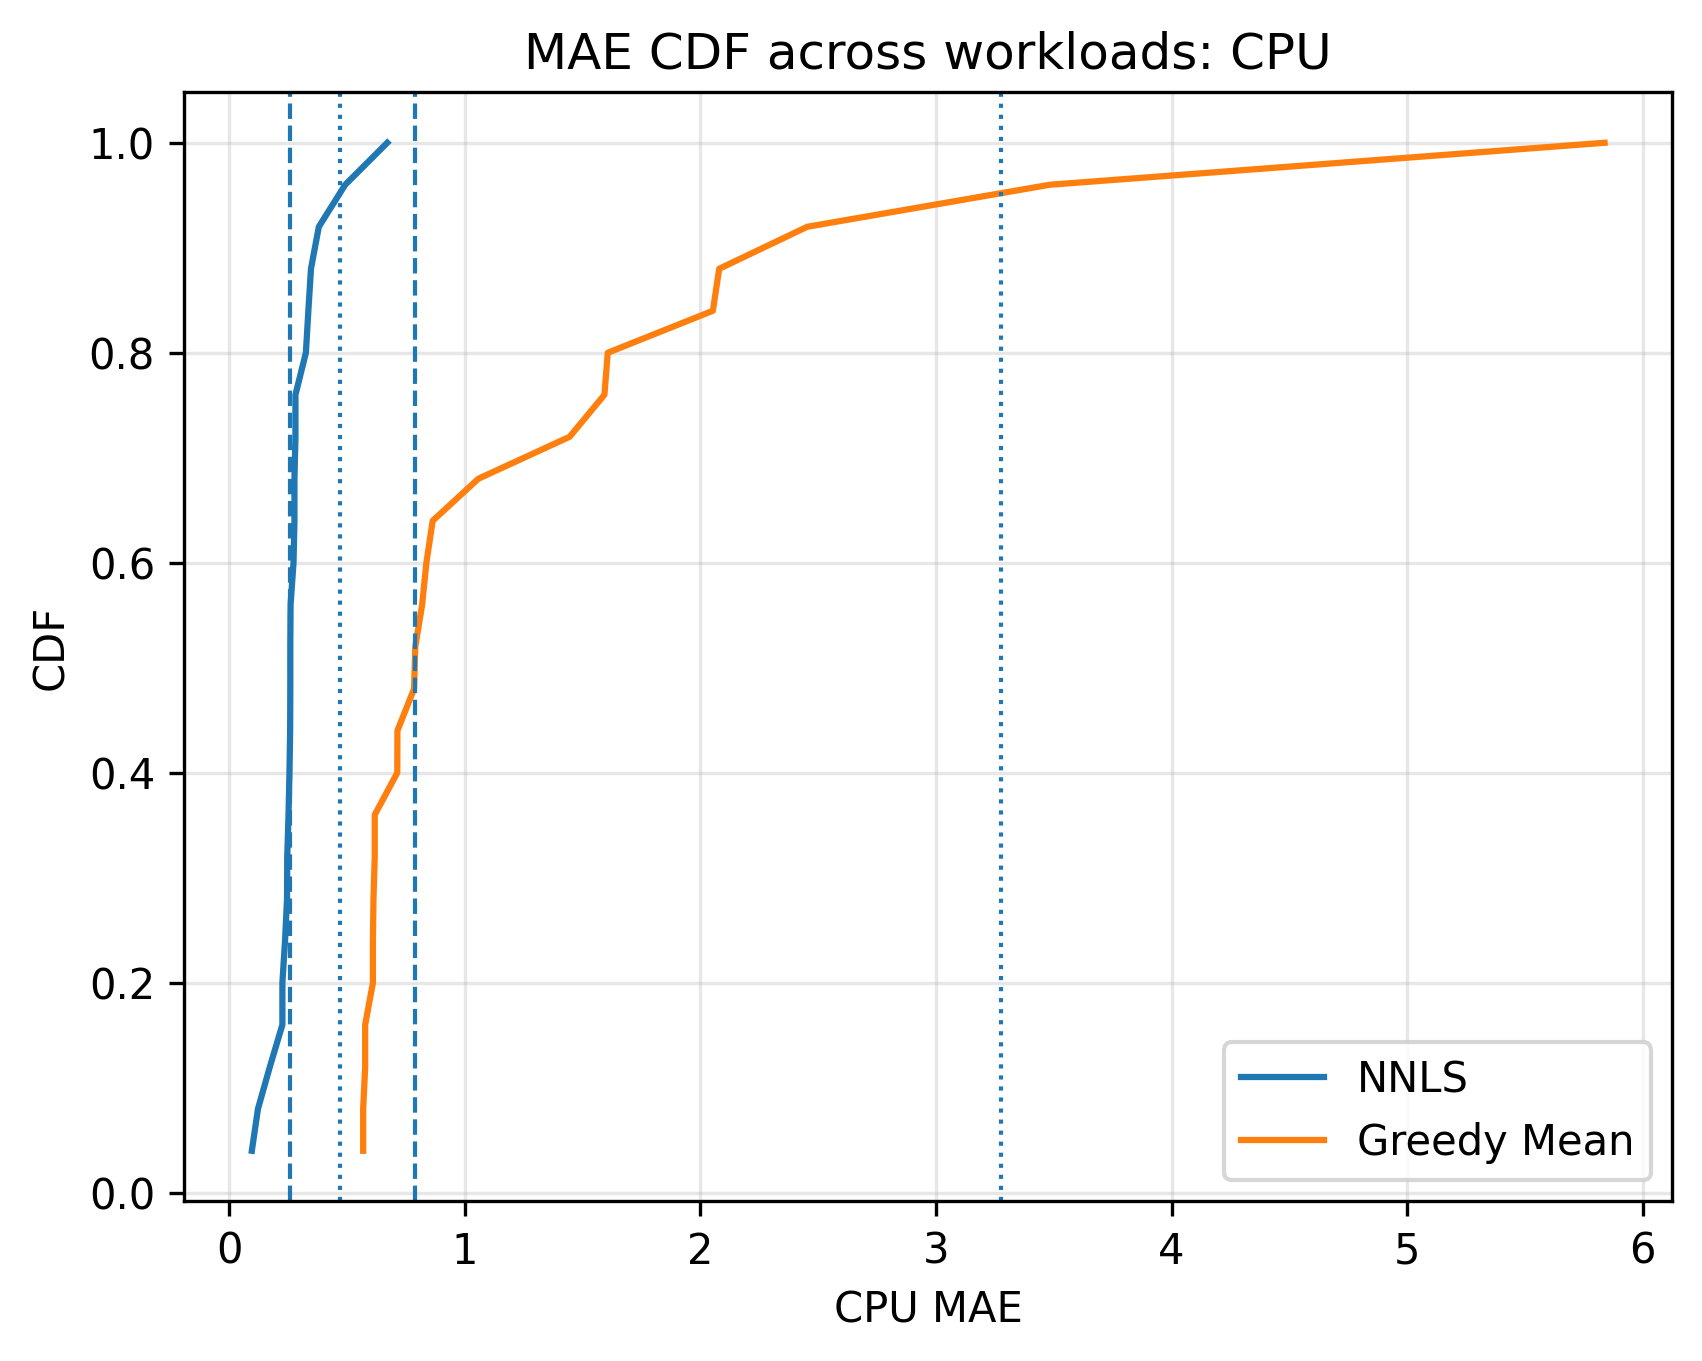
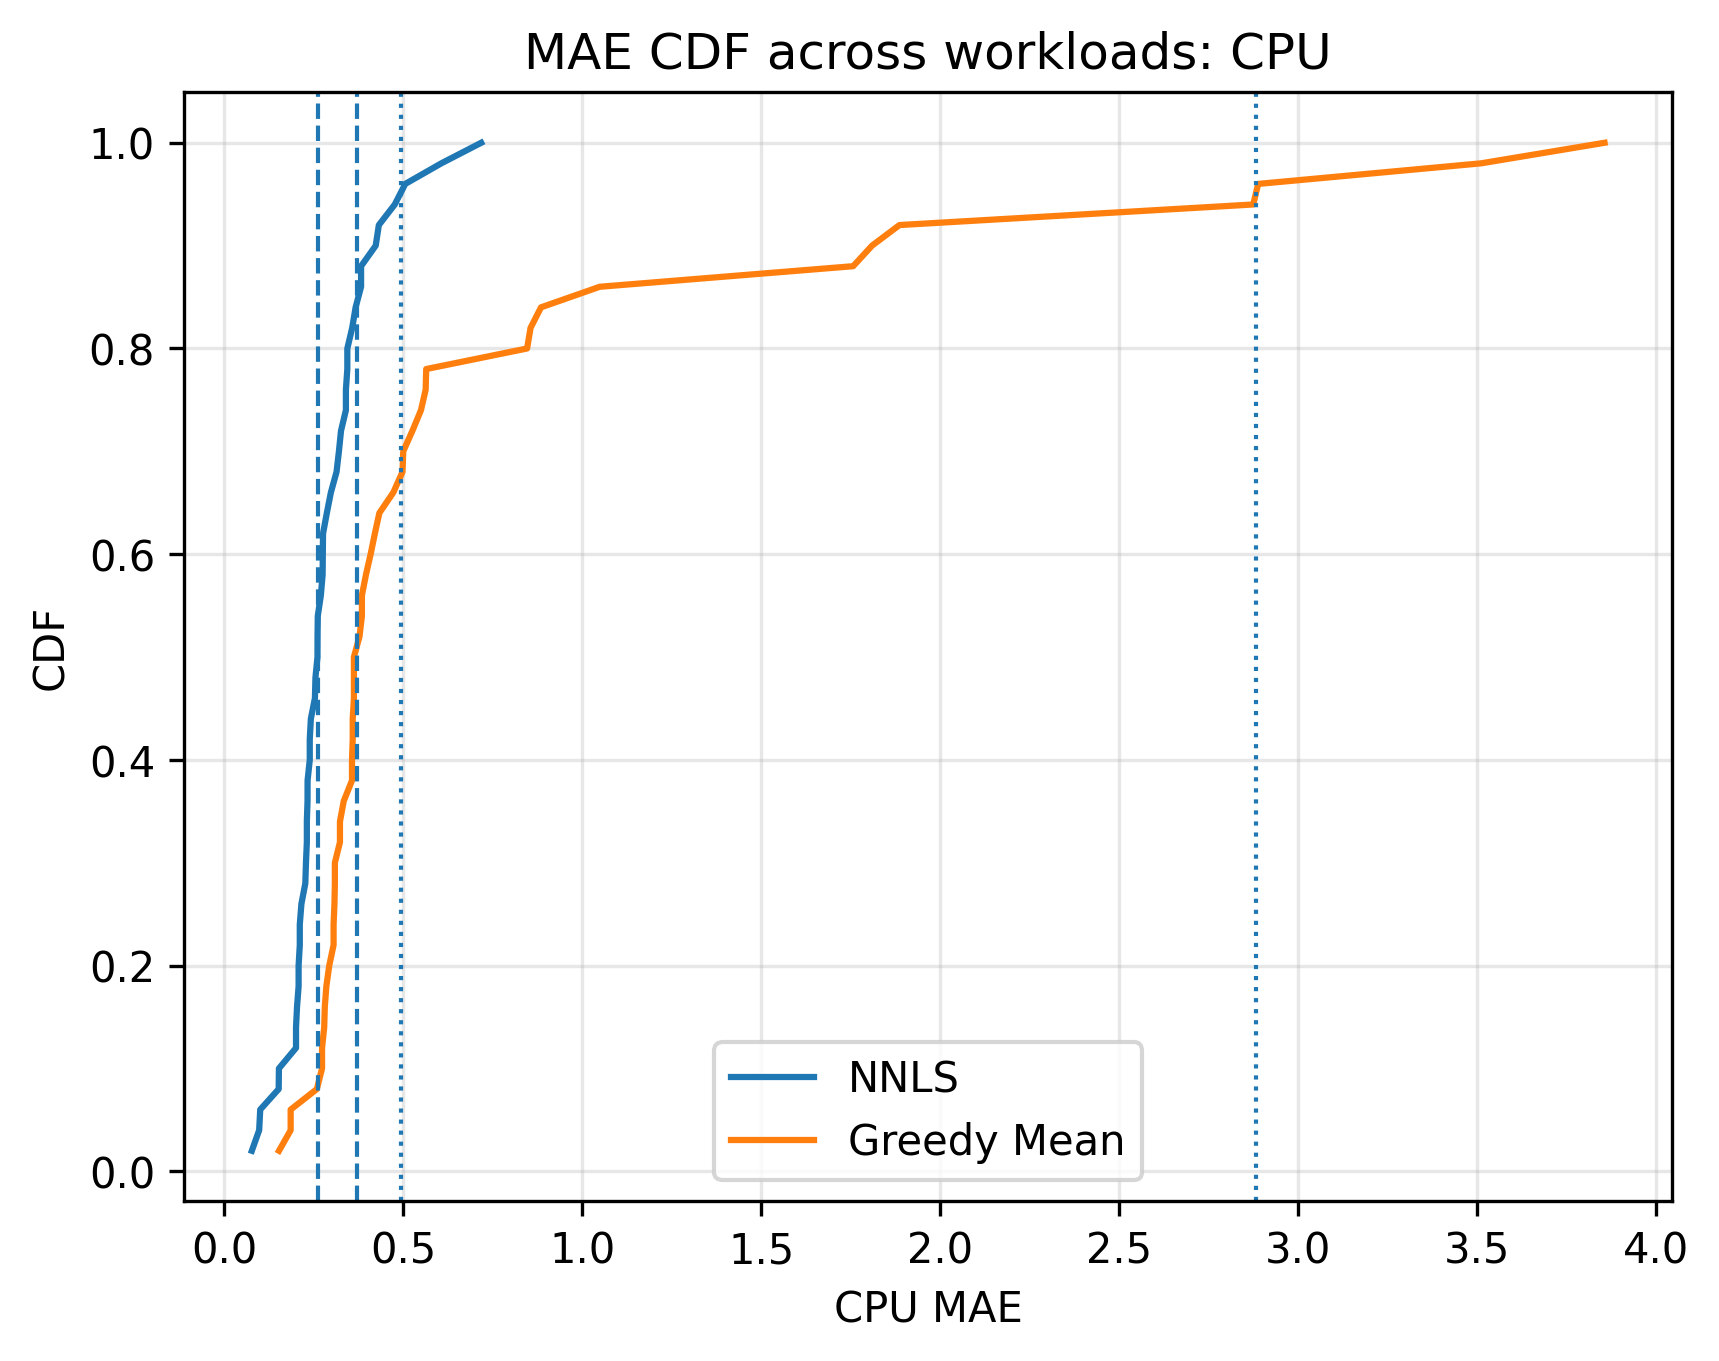
cdf

diff --git a/algorithm_greedy_mean_only.py b/algorithm_greedy_mean_only.py
@@ -437,7 +437,10 @@ def separate_utilization_per_workload(workload_i, system_data, workloads_data, u
     count = 0
     totalMAE = 0
     #print("Generating plots...")
+    MAE_list = []
     for node, ts in per_node_timestamps.items():
+        node_abs_sum = 0.0
+        t_count = 0
         contrib_sum = sum(per_node_task_contribs[node].values())
         residual = per_node_residuals[node]
         y_obs = contrib_sum + residual
@@ -453,10 +456,15 @@ def separate_utilization_per_workload(workload_i, system_data, workloads_data, u
                 continue
             totalMSE += residual[i2]**2
             totalMAE += abs(residual[i2])
+            node_abs_sum += abs(residual[i2])
+            t_count += 1
             if y_obs[i2] == 0.0 or residual[i2] < 0:
                 continue
             totalMAPE += (abs(residual[i2])/y_obs[i2])*100
             count += 1
+        if t_count > 0:
+            #print(t_count)
+            MAE_list.append(float(node_abs_sum/t_count))
 
         '''
         plt.figure(figsize=(10, 3))
@@ -505,7 +513,7 @@ def separate_utilization_per_workload(workload_i, system_data, workloads_data, u
 
     #print(f"✅ Multi-task plots saved under: {multi_plot_dir.resolve()}")
     '''
-    return MSE, MAPE, MAE
+    return MSE, MAPE, MAE, MAE_list
 
 def gm_main(workload_data, system_data, utilization):
     #system_file = Path(system)
@@ -518,19 +526,22 @@ def gm_main(workload_data, system_data, utilization):
     totalMAPE = 0
     totalMAE = 0
     results = []
-    MAE_list = []
+    all_MAE_list = []
     for index in range(len(system_data)):
-        singleMSE, singleMAPE, singleMAE = separate_utilization_per_workload(index, system_data, workload_data, utilization)
+        singleMSE, singleMAPE, singleMAE, MAE_list = separate_utilization_per_workload(index, system_data, workload_data, utilization)
         #print(f"Workload {index}: MSE={singleMSE}, MAE={singleMAE}%")
         #print(f"MAE: {singleMAE}")
         totalMSE += singleMSE
         totalMAPE += singleMAPE
         totalMAE += singleMAE
-        MAE_list.append(float(singleMAE))
-        
+        all_MAE_list.extend(MAE_list)
+        #MAE_list.append(float(singleMAE))
+
+    #print(f"GM_{utilization}: {len(all_MAE_list)}")
+    
     #print(f"MSE = {totalMSE/len(system_data)}")
     #print(f"MAPE = {totalMAPE/len(system_data)}")
     #print(f"MAE = {totalMAE/len(system_data)}")
-    return MAE_list
-        
+    return all_MAE_list
+
 #pertask_utilization_greedy_mean()

diff --git a/algorithm_blockwise_nonnegative_least_squares.py b/algorithm_blockwise_nonnegative_least_squares.py
@@ -219,6 +219,8 @@ def nnls_main(workloads_all, system_all, utilization):
         single_MAE = 0.0
         contribs_all = {}
         for node, data in node_series.items():
+            node_abs_sum = 0.0
+            t_count = 0
             node_tasks = [t for t in tasks if node in t["nodes"]]
             if not node_tasks: continue
             contribs = mean_then_blockwise_nnls(
@@ -282,13 +284,21 @@ def nnls_main(workloads_all, system_all, utilization):
                 single_MSE += (reconstructed - original) ** 2
                 single_MAPE += abs(reconstructed - original)/original*100
                 single_MAE += abs(reconstructed - original)
+                node_abs_sum += abs(reconstructed - original)
+                t_count += 1
                 c += 1.0
+                
         
         
 
             #plot_tasks(data["timestamps"],data["util"], contribs,plotdir / f"task_{node}.png")
             #plot_node(data["timestamps"], data["util"], recon, plotdir / f"{node}.png")
             contribs_all[node] = contribs
+            if t_count > 0:
+                #print(t_count)
+                MAE_list.append(float(node_abs_sum/t_count))
+            #else:
+                #print(wi)
 
         np.save(OUT_DIR / f"per_node_task_contribs_{safe}.npy",
                 {"workload": wname, "contribs": contribs_all}, allow_pickle=True)
@@ -302,7 +312,8 @@ def nnls_main(workloads_all, system_all, utilization):
         all_MSE += MSE
         all_MAPE += MAPE
         all_MAE += MAE
-        MAE_list.append(float(MAE))
+        #MAE_list.append(float(MAE))
+        
 
     all_MSE /= len(system_all)
     all_MAPE /= len(system_all)
@@ -311,7 +322,8 @@ def nnls_main(workloads_all, system_all, utilization):
     #print(f"\n=== Overall Results ===\nMAE: {all_MAE}")
     #print(a, b)
     #print("MAE list:", MAE_list)
-    #print(len(MAE_list))
+    
+    #print(f"NNLS_{utilization}: {len(MAE_list)}")
     return MAE_list
 
 #pertask_utilization_NNLS()
